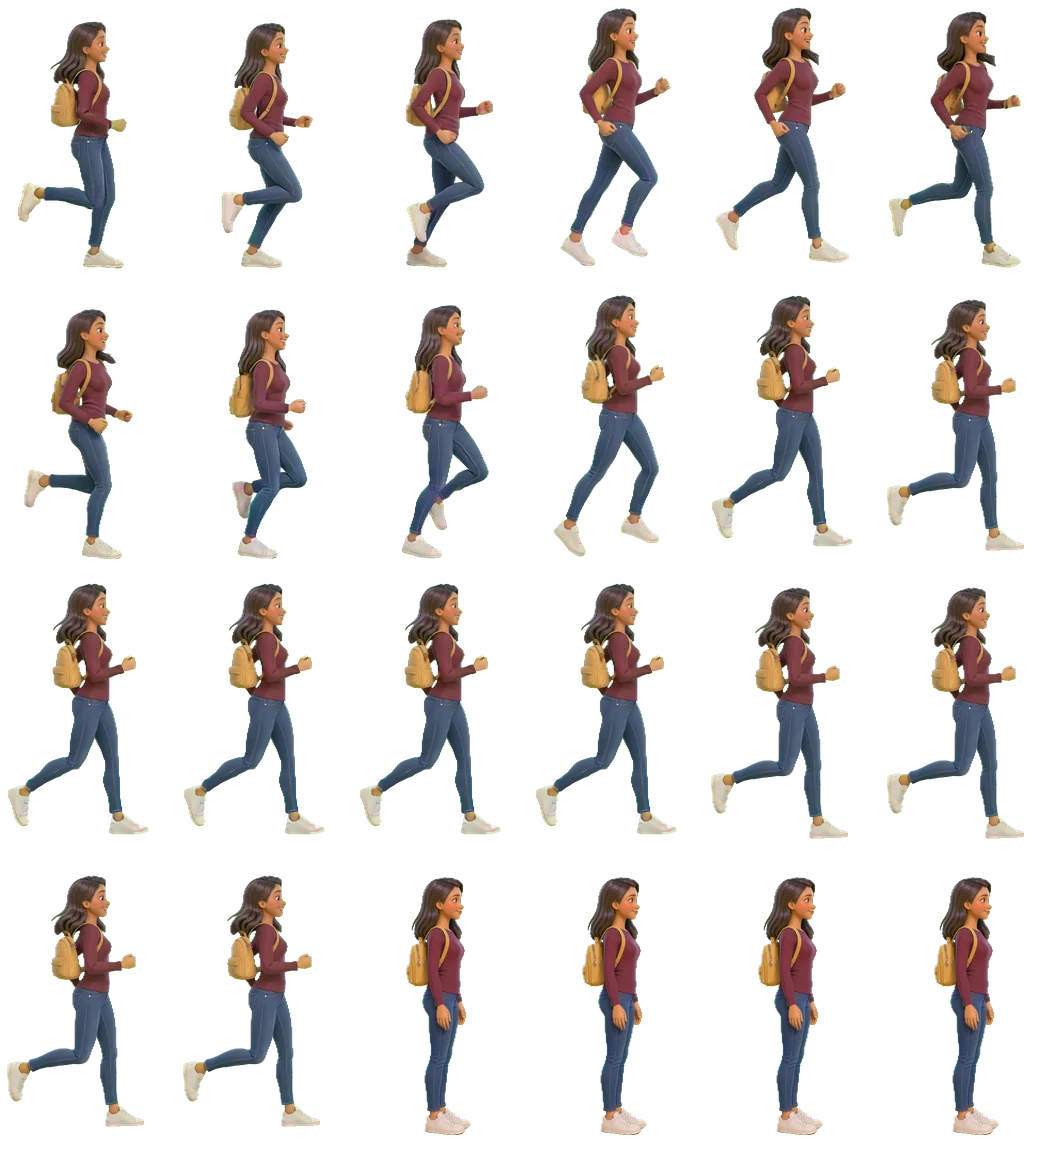
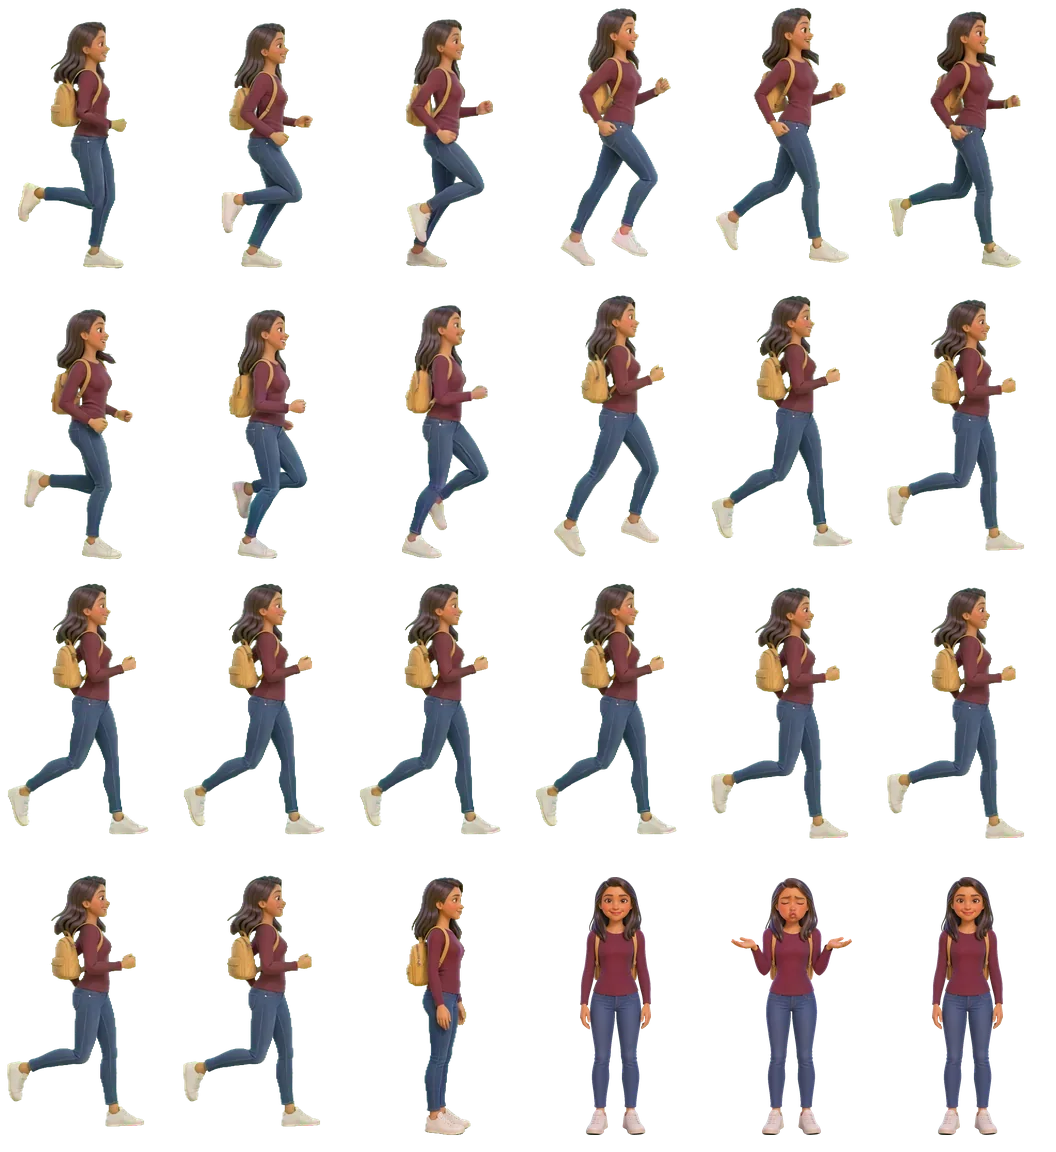
Jasmin 2 : héros de face au départ et après 10 s d'arrêt (soupir), tenues de Médina Express
- cases 21-23 des planches : de face, soupir ; 40 planches de tenues (jasmin2/corps-<id>-<tenue>.webp)
- menu « Ta tenue » : même garde-robe et mêmes pièces que Médina Express
- docs et scripts (docs/jasmin2-corps/face.py)

Claude-Session: https://claude.ai/code/session_01Lr4SkBJnq1yRYGqqaX6PKr

Changed region(s): [[0.875, 0.75, 0.9688, 1.0], [0.5312, 0.75, 0.625, 1.0], [0.6875, 0.75, 0.8125, 1.0]]

diff --git a/jeux/legende-du-jasmin-2.html b/jeux/legende-du-jasmin-2.html
@@ -53,6 +53,10 @@ h2{font-family:var(--display);margin:0;font-size:30px;line-height:1.05}
 .big.blue{background:linear-gradient(#3f86e8,#1f5fbf);color:#fff;box-shadow:0 6px 0 var(--blue2)}
 .row{display:flex;gap:10px;width:100%;flex-wrap:wrap}
 .row > *{flex:1 1 180px}
+.tenues-w{width:100%;min-width:0}.tlab{margin:0 0 4px;color:var(--mist);font-weight:700;font-size:.85rem;text-align:left}
+.tenues{display:flex;gap:8px;overflow-x:auto;touch-action:pan-x;padding:2px 2px 8px;scrollbar-width:none}.tenues::-webkit-scrollbar{display:none}
+.tenues button{flex:none;min-width:96px;min-height:56px;border-radius:14px;border:2px solid var(--line);background:#ffffff14;color:#fff;font:800 .82rem inherit;font-family:inherit;padding:6px 10px;display:flex;flex-direction:column;align-items:center;gap:1px;cursor:pointer}
+.tenues button span{font-size:1.3rem;line-height:1}.tenues button small{font-weight:700;opacity:.8;font-size:.7rem}.tenues button.on{background:#ffc93c;color:#23324a;border-color:#ffc93c}.tenues button.lock{opacity:.7}
 .who{display:flex;align-items:center;gap:10px;background:#ffffff14;border:2px solid var(--line);border-radius:999px;padding:6px 16px 6px 6px;min-height:56px}
 .av{width:44px;height:44px;border-radius:50%;overflow:hidden;display:grid;place-items:center;font-size:24px;background:#2a3d82;flex:none}
 .av img{width:100%;height:100%;object-fit:cover}
@@ -108,9 +112,10 @@ body.menu .back{display:inline-flex}
 
 <div class="screen on" id="menu"><div class="box">
   <video class="title-img" id="titleVid" src="jasmin/titre.mp4" poster="jasmin/titre.webp" preload="none" muted playsinline disablepictureinpicture aria-label="La famille dans un village tunisien bleu et blanc : passe la souris ou touche l'image pour la voir sauter"></video>
-  <h1>La Légende <span>du Jasmin 2</span></h1>
+  <h1 style="font-size:clamp(1.5rem,4.4vw,2.7rem);white-space:nowrap">La Légende <span>du Jasmin 2</span></h1>
   <p class="sub">Le Scorpion d'Or a volé les jasmins dorés de la Tunisie. Traverse dix-huit mondes pour les rapporter !<br>Les héros « en vrai » · même aventure, mêmes progrès que le <a href="legende-du-jasmin.html" style="color:inherit">Jasmin 1</a>.</p>
   <button class="who" id="who"></button>
+  <div class="tenues-w"><p class="tlab" id="tLab">Ta tenue</p><div class="tenues" id="tenues"></div></div>
   <button class="big" id="play">▶ Jouer</button>
   <div class="row"><button class="big ghost" id="openRecs">🏆 Records</button><button class="big ghost" id="openOpts">⚙ Réglages</button><button class="big ghost" id="openHelp">❓ Comment jouer</button></div>
 </div></div>
@@ -552,7 +557,8 @@ async function setPlayer(name){
   if(window.Famille){
     if(!tracked.has(name)){ tracked.add(name); Famille.track('jasmin', name, [skey()]); }
     const r = await Famille.load('jasmin', name), d = r && r[skey()];
-    if(d && player === name && (d.t || 0) > (save.t || 0)){ save = Object.assign(fresh(), d); store.set(skey(), save); renderMenu(); }
+    if(d && player === name && (d.t || 0) > (save.t || 0)){ save = Object.assign(fresh(), d); store.set(skey(), save); renderMenu(); loadBody(name); }
+    try{ const rm = await Famille.load('medina', name), dm = rm && rm[mkey()], lm = store.get(mkey(), null); if(dm && player === name && (!lm || (dm.t || 0) > (lm.t || 0))){ store.set(mkey(), dm); renderTenues(); loadBody(name); } }catch(e){}
   }
 }
 const pcol = () => PEOPLE[(player || '').toLowerCase()] || Object.assign({ mascot:true }, mascotOf(player));
@@ -1164,7 +1170,11 @@ const HEADCROP_P = { essil:[.048, .011, .86], salma:[.066, .024, .88], amine:[.0
 function headCropP(){ const k = (player || '').toLowerCase(); return HEADCROP_P[PEOPLE[k] ? k : mascotOf(player).id] || HEADCROP_P.nour; }
 function headCrop(){ const k = (player || '').toLowerCase(); return HEADCROP[PEOPLE[k] ? k : mascotOf(player).id] || HEADCROP.nour; }
 /* ---------- Jasmin 2 : le héros « en vrai » (planche de profil tirée de vidéos, comme dans Médina Express) ---------- */
-// jasmin2/corps-<id>.webp : 6 x 4 images tournées vers la droite. 0-11 la foulée, 12-19 le saut, 20 debout.
+// jasmin2/corps-<id>[-<tenue>].webp : 6 x 4 images tournées vers la droite. 0-11 la foulée, 12-19 le bond, 20 debout de profil, 21 de face, 22 de face qui soupire.
+// Les tenues sont celles de Médina Express : même garde-robe (`medina:<Prénom>`.skins) et mêmes pièces pour les acheter.
+const TENUES = [{ id:'classique', n:'Classique', ic:'👕', prix:0 }, { id:'jebba', n:'Jebba et chéchia', ic:'🕌', prix:150 }, { id:'foot', n:'Maillot de foot', ic:'⚽', prix:300 }, { id:'super', n:'Super-héros', ic:'🦸', prix:600 }, { id:'astro', n:'Astronaute', ic:'🧑🚀', prix:1000 }, { id:'or', n:'Tout en or', ic:'✨', prix:2000 }];
+const mkey = () => 'medina:' + player, garde = () => { const m = store.get(mkey(), {}) || {}; return { m, coins:m.coins || 0, skins:Array.isArray(m.skins) ? m.skins : ['classique'] }; };
+const tenue = () => { const g = garde(); return TENUES.some(k => k.id === save.tenue) && (save.tenue === 'classique' || g.skins.includes(save.tenue)) ? save.tenue : 'classique'; };
 const TAILLE2 = { amine:.8, salma:.9, essil:.97, nour:.92, yasmine:.92, anis:1.08, imen:1.05, fares:1.04 };
 let bodySheet = null;   // { im, cw, ch, feet, top, k }
 function loadBody(name){
@@ -1174,14 +1184,16 @@ function loadBody(name){
     const c = document.createElement('canvas'); c.width = cw; c.height = ch; const x = c.getContext('2d', { willReadFrequently:true }); x.drawImage(im, 2 * cw, 3 * ch, cw, ch, 0, 0, cw, ch);
     const d = x.getImageData(0, 0, cw, ch).data; let top = ch, feet = 0; for(let y = 0; y < ch; y++){ let n = 0; for(let q = 0; q < cw; q++) if(d[(y * cw + q) * 4 + 3] > 120) n++; if(n > 2){ if(y < top) top = y; feet = y; } }
     bodySheet = { im, cw, ch, top, feet, k:TAILLE2[id] }; };
-  im.src = `jasmin2/corps-${id}.webp?v=1`;
+  const tn = tenue(); im.src = `jasmin2/corps-${id}${tn === 'classique' ? '' : '-' + tn}.webp?v=2`;
 }
-function drawBody(cx, h, t, run, air, ph){
+function drawBody(cx, h, t, run, air, ph, sg){
   const b = bodySheet, sc = 76 * b.k / (b.feet - b.top);   // 76 px de haut pour une taille de 1
-  let f; if(h.dead) f = 15; else if(h.swim) f = 14 + Math.floor(t * 5) % 3; else if(air) f = h.vy < -260 ? 13 : h.vy < -90 ? 14 : h.vy < 90 ? 15 : h.vy < 300 ? 16 : 17; else if(run > .12) f = Math.floor((((ph / (Math.PI * 2)) % 1) + 1) % 1 * 12); else f = 20;
+  let f; if(h.dead) f = 15; else if(h.swim) f = 14 + Math.floor(t * 5) % 3; else if(air) f = h.vy < -260 ? 13 : h.vy < -90 ? 14 : h.vy < 90 ? 15 : h.vy < 300 ? 16 : 17; else if(run > .12) f = Math.floor((((ph / (Math.PI * 2)) % 1) + 1) % 1 * 12); else f = h.lookProf ? 20 : sg > .12 && sg < .85 ? 22 : 21;   // à l'arrêt : de profil ; au départ et après 10 s sans bouger : de face, puis le soupir
+  const flip = f >= 21 && h.face < 0; if(flip){ cx.save(); cx.scale(-1, 1); }   // de face, on ne le retourne pas
   const w = b.cw * sc, hh = b.ch * sc; cx.imageSmoothingQuality = 'high';
   if(h.swim){ cx.save(); cx.translate(0, -20); cx.rotate(.9); cx.drawImage(b.im, (f % 6) * b.cw, Math.floor(f / 6) * b.ch, b.cw, b.ch, -w / 2, -b.feet * sc + 26, w, hh); cx.restore(); }
-  else cx.drawImage(b.im, (f % 6) * b.cw, Math.floor(f / 6) * b.ch, b.cw, b.ch, -w / 2, -b.feet * sc + 1, w, hh);
+  else cx.drawImage(b.im, (f % 6) * b.cw, Math.floor(f / 6) * b.ch, b.cw, b.ch, -w / 2, -b.feet * sc + 1 - (f === 22 ? 1.5 : 0), w, hh);
+  if(flip) cx.restore();
   return 76 * b.k;   // hauteur du héros
 }
 function drawHero(cx, h, t){
@@ -1195,10 +1207,10 @@ function drawHero(cx, h, t){
   if(bodySheet){
     if(!h.dead && (run > .15 || (air && Math.abs(h.vx) > 20))){ h.still = t; h.sigh = 0; h.lookProf = true; } else if(h.still === undefined) h.still = t;
     if(h.lookProf && !h.dead && t - h.still > 10){ h.lookProf = false; h.sigh = t; sfx.sigh(); }
-    const H2 = drawBody(cx, h, t, run, air, ph), sg = h.sigh && t - h.sigh < 2.2 ? (t - h.sigh) / 2.2 : -1;
+    const sg = h.sigh && t - h.sigh < 2.2 ? (t - h.sigh) / 2.2 : -1, H2 = drawBody(cx, h, t, run, air, ph, sg);
     if(h.harissa){ cx.fillStyle = '#ff6a1a'; cx.beginPath(); cx.arc(13, -H2 * .42, 4 + Math.sin(t * 12), 0, 7); cx.fill(); }
-    if(sg > .3 && sg < 1){ const k = (sg - .3) / .7; cx.save(); cx.globalAlpha = Math.max(0, 1 - k) * .9; cx.fillStyle = '#ffffff';
-      [[0, 4.5], [.18, 3.6], [.36, 2.8]].forEach(([d, r]) => { const q = Math.max(0, k - d); if(q > 0){ cx.beginPath(); cx.arc(9 + q * 26, -H2 * .8 - q * 12, r + q * 2, 0, 7); cx.fill(); } });
+    if(sg > .3 && sg < 1){ const k = (sg - .3) / .7; cx.save(); if(h.face < 0) cx.scale(-1, 1); cx.globalAlpha = Math.max(0, 1 - k) * .9; cx.fillStyle = '#ffffff';
+      [[0, 4.5], [.18, 3.6], [.36, 2.8]].forEach(([d, r]) => { const q = Math.max(0, k - d); if(q > 0){ cx.beginPath(); cx.arc(6 + q * 26, -H2 * .8 - q * 12, r + q * 2, 0, 7); cx.fill(); } });
       cx.font = '800 9px "Baloo 2", sans-serif'; cx.fillStyle = '#23324a'; cx.textAlign = 'left'; cx.fillText('pff…', 18 + k * 10, -H2 * .9 - k * 8); cx.restore(); }
     if(h.chechia && !h.swim){ cx.save(); cx.translate(0, -H2 + 4); cx.fillStyle = '#c4122f'; cx.beginPath(); cx.moveTo(-9, 0); cx.lineTo(9, 0); cx.lineTo(7.5, -11); cx.lineTo(-7.5, -11); cx.closePath(); cx.fill(); cx.fillStyle = '#8a0a1f'; cx.fillRect(-8, -3, 16, 2.5);
       cx.strokeStyle = '#111'; cx.lineWidth = 1.6; cx.beginPath(); cx.moveTo(0, -11); cx.quadraticCurveTo(-7, -8 + Math.sin(t * 8) * 2, -10, -1); cx.stroke(); cx.restore(); }
@@ -1314,7 +1326,14 @@ function frame(now){
    Écrans : menu, mondes, questions, fin de niveau
    ===================================================================== */
 function show(id){ releaseAll(); keys.l = keys.r = keys.a = keys.b = false; document.querySelectorAll('.screen').forEach(s => s.classList.toggle('on', s.id === id)); document.body.classList.toggle('menu', id === 'menu'); document.body.classList.toggle('playing', !id); }
-function renderMenu(){ $('who').innerHTML = player ? `${avatarHTML(player)}<span><b>${esc(player)}</b><small>Toucher pour changer de héros</small></span>` : `${avatarHTML('')}<span><b>Qui joue ?</b><small>Choisis ton héros</small></span>`; }
+function renderTenues(){ const g = garde(), cur = tenue(); $('tLab').textContent = player ? `Ta tenue · tu as ${g.coins} 🪙 (les pièces de Médina Express)` : 'Ta tenue';
+  $('tenues').innerHTML = TENUES.map(k => { const has = k.prix === 0 || g.skins.includes(k.id); return `<button class="${cur === k.id ? 'on' : ''} ${has ? '' : 'lock'}" data-tn="${k.id}"><span>${k.ic}</span>${k.n}<small>${has ? (cur === k.id ? 'je la porte' : 'à moi') : '🔒 ' + k.prix + ' 🪙'}</small></button>`; }).join('');
+  const on = $('tenues').querySelector('.on'); if(on) $('tenues').scrollLeft = Math.max(0, on.offsetLeft - 60); }
+$('tenues').onclick = async e => { const b = e.target.closest('[data-tn]'); if(!b) return; audio(); if(!player && !(await choose())) return; const k = TENUES.find(x => x.id === b.dataset.tn), g = garde();
+  if(k.prix > 0 && !g.skins.includes(k.id)){ if(g.coins < k.prix){ sfx.tap(); $('tLab').textContent = `Il te manque ${k.prix - g.coins} 🪙 pour « ${k.n} » : gagne des pièces dans Médina Express !`; return; }
+    const m = Object.assign({}, g.m, { coins:g.coins - k.prix, skins:g.skins.concat(k.id), t:Date.now() }); store.set(mkey(), m); if(window.Famille && Famille.track && !tracked.has('m:' + player)){ tracked.add('m:' + player); Famille.track('medina', player, [mkey()]); } }
+  sfx.tap(); save.tenue = k.id; persist(); renderTenues(); loadBody(player); };
+function renderMenu(){ renderTenues(); $('who').innerHTML = player ? `${avatarHTML(player)}<span><b>${esc(player)}</b><small>Toucher pour changer de héros</small></span>` : `${avatarHTML('')}<span><b>Qui joue ?</b><small>Choisis ton héros</small></span>`; }
 async function choose(){ const n = await Famille.choosePlayer({ title:'Qui part à l\'aventure ?', extra:PARENTS, avatar:k => `<img src="avatars/${k.name.toLowerCase()}.webp" alt="" onerror="this.replaceWith(document.createTextNode('${k.emoji}'))">` }); if(n) await setPlayer(n); return n; }
 $('who').onclick = () => { audio(); sfx.tap(); choose(); };
 // un monde est ouvert s'il est le premier du voyage, s'il l'était déjà avec l'ancien ordre (1 à 5), ou si le monde d'avant est réussi

diff --git a/docs/jasmin2-corps/face.py b/docs/jasmin2-corps/face.py
@@ -1,0 +1,21 @@
+"""Jasmin 2 : ajoute à une planche la vue de face (case 21 et 23) et le soupir (case 22), à la même taille que le héros debout de profil (case 20).
+   usage : python3 face.py <nom>   (images sur fond vert : img/<nom>-face.png, img/<nom>-soupir.png)"""
+import numpy as np, sys, os
+from PIL import Image
+from scipy import ndimage as nd
+CW, CH = 176, 288
+def key(path):
+    a = np.array(Image.open(path).convert('RGB')).astype(float); r, g, b = a[..., 0], a[..., 1], a[..., 2]
+    k = g - np.maximum(r, b); al = np.clip((48 - k) / 30, 0, 1); lab, n = nd.label(al > .5)
+    if n > 1: sizes = nd.sum(al > .5, lab, range(1, n + 1)); al = al * nd.binary_dilation(lab == (int(np.argmax(sizes)) + 1), iterations=3)
+    a[..., 1] = np.where(al < 1, np.minimum(g, np.maximum(r, b) + 8), g)
+    im = Image.fromarray(np.dstack([a, al * 255]).astype(np.uint8), 'RGBA'); ys, xs = np.nonzero(al > .5); return im.crop((xs.min(), ys.min(), xs.max() + 1, ys.max() + 1))
+def main(n):
+    p = f'/home/claude/jeux-amine/jeux/jasmin2/corps-{n}.webp'; sh = Image.open(p).convert('RGBA'); idle = np.asarray(sh.crop((2 * CW, 3 * CH, 3 * CW, 4 * CH)))[..., 3] > 128
+    ys = np.nonzero(idle.any(axis=1))[0]; top, feet = ys.min(), ys.max(); H = feet - top + 1
+    face = key(f'img/{n}-face.png'); k = H / face.height
+    for cellno, src in ((21, face), (22, key(f'img/{n}-soupir.png')), (23, face)):
+        im = src.resize((max(1, round(src.width * k)), max(1, round(src.height * k))), Image.LANCZOS); c = Image.new('RGBA', (CW, CH), (0, 0, 0, 0)); c.paste(im, ((CW - im.width) // 2, feet + 1 - im.height))
+        x0, y0 = (cellno % 6) * CW, (cellno // 6) * CH; sh.paste(c, (x0, y0))
+    sh.save(p, quality=84, method=6); bg = Image.new('RGBA', sh.size, (190, 215, 255, 255)); bg.alpha_composite(sh); bg.convert('RGB').crop((0, 3 * CH, 6 * CW, 4 * CH)).save(f'prev-face-{n}.jpg'); print(n, 'H', H, os.path.getsize(p) // 1024, 'Ko')
+main(sys.argv[1])

diff --git a/docs/higgsfield.md b/docs/higgsfield.md
@@ -53,12 +53,13 @@ Compte du papa (forfait **Plus**), relié à Claude par le connecteur MCP Higgsf
 | 11/11 | Médina Express, corps animés : 7 images de dos sur fond vert (14), 23 vidéos `kling3_0` std 3 s sans son à **4,5 crédits** (103,5 : course, saut, accroupi pour 8 personnages), 44 planches habillées `flux_3_image` à 2 crédits (88 : 40 tenues, 1 essai, 3 astronautes refaits sans vrai gain). Planche verte envoyée par `media_upload`, `aspect_ratio: auto` ; l'image revient en 976 × 1065, poses et places conservées | `jeux/medina/corps-*.webp` (48), scripts `docs/medina-corps/` | 205,5 |
 | 11/11 | Médina Express, le policier : 1 image de dos sur fond vert (`flux_3_image`, l'image de départ d'Anis en référence pour le style et la pose, job `d7005857-e7c7-44ce-bb08-b86bdfe06f7a`) + 1 vidéo de course `kling3_0` std 3 s | `jeux/medina/policier.webp` | 6,5 |
 | 11/11 | Jasmin 2, héros de profil : 8 images debout de profil sur fond vert (16), 8 vidéos de course (36), 8 vidéos de saut **non utilisées** (36 : la tête sort du cadre), 1 course refaite pour Nour (4,5 : le mot « treadmill » avait fait apparaître un tapis de course) | `jeux/jasmin2/corps-*.webp` (8), script `docs/jasmin2-corps/sheet2.py` | 92,5 |
+| 11/11 | Jasmin 2, face, soupir et tenues : 8 images de face (16), 8 retouches « soupir » à partir de l'image de face (16), 40 planches habillées (80 ; 1 échec non facturé, relancé). Consigne des tenues : « keep the same 24 figures (side views facing right, and front views in the last row)… » ; l'astronaute des 3 mascottes garde une combinaison crème | `jeux/jasmin2/corps-*.webp` (48) | 112 |
 | 10/11 | La Planète des Nombres (Amine) : 8 aliens (2 refaits pour être bien originaux : le vert à un œil et le rose à grandes oreilles rappelaient des personnages connus), soucoupe, décor et accueil (`flux_3_image`, fond blanc détouré par remplissage depuis les bords) ; voix de Julian : les nombres de 0 à 59 en 6 prises de dix (« Zéro. Un. … Neuf. Voilà. », découpées aux silences avec `split2.py`), « Soixante » et 19 consignes à part | `amine/nombres/*.webp`, `amine/nombres/voix/*.mp3` | 28 |
 | 10/11 | Nouvel avatar de Salma : 3 propositions (`flux_3_image`, 1:1), références = 3 gros plans de son visage recadrés (sans le fond ni son frère) + l'avatar d'Essil pour le style ; choix 1 retenu (job 1960c07c…) | `jeux/avatars/salma.webp` | 6 |
 | 10/11 | Salma refaite sur 9 images (retouche `flux_3_image` : 1re référence = l'ancienne image, 2e = le nouvel avatar ; consigne « Edit the first image. Keep everything exactly the same… Only change the girl… ») + vidéo d'accueil du Jasmin refaite (`kling3_0`, 5 s, std, sans son, même image au début et à la fin) | `jeux/avatars/salma-{dragon,licorne,phenix}.webp`, `ludo-famille`, `grimpe-glace`, `jeux/cartes/{verbes,hydre}.webp`, `jeux/jasmin/titre.{webp,mp4}`, `salma/meteo/titre.webp` | 25,5 |
 | 10/11 | Têtes de profil pour le héros du Jasmin : 8 images (`flux_3_image`, 1:1, l'avatar en référence, « same character… clean side profile view… looking to the RIGHT ») | `jeux/avatars/*-profil.webp` | 16 |
 | 11/11 | Têtes « soupir » du héros du Jasmin : 8 images (`flux_3_image`, 1:1, l'avatar en référence, « Exactly the same image… Only the expression changes: a funny bored sigh… ») — même cadrage que l'avatar, donc même réglage de tête | `jeux/avatars/*-soupir.webp` | 16 |
-| | **Total** (solde Higgsfield le 11/11 au soir : 204,6 crédits) | | **≈ 1 127** |
+| | **Total** (solde Higgsfield le 11/11 au soir : 92,6 crédits) | | **≈ 1 239** |
 
 La carte mythique de Salma (`verbes`) a une crête de plumes qui rappelle une coiffe ; publiée telle quelle à la demande du papa (02/11).
 

diff --git a/docs/jeux-3d.md b/docs/jeux-3d.md
@@ -102,6 +102,8 @@ Bouton 💬 (uniquement en ligne) : emojis, phrases toutes faites, message libre
 Demandé par le papa : reprendre les personnages « en vrai » de Médina Express dans le Jasmin, en gardant l'ancienne version. Le Jasmin 2 est une **copie du Jasmin** où seul le héros change : même aventure, mêmes 18 mondes, **même sauvegarde** (`jasmin:<Prénom>`) et mêmes records (`jasmin`), donc les progrès passent d'une version à l'autre. Un lien sur l'écran-titre de chacune mène à l'autre ; lien sur l'accueil.
 - **Le héros** : une planche de profil par personnage (famille et 3 mascottes), `jeux/jasmin2/corps-<id>.webp`, 1056 × 1152, 6 × 4 cases, tourné vers la droite (le jeu le retourne pour aller à gauche) : cases 0-11 la foulée, 12-15 le bond qui monte, 16-19 le bond qui descend, 20-23 debout. Code : `loadBody()` (charge la planche et mesure la tête et les pieds de la case « debout »), `drawBody()` (choisit l'image : debout, foulée selon `h.phase`, bond selon `h.vy`, nage = bond penché), branche `if(bodySheet)` au début de `drawHero` ; chéchia, flamme d'harissa et soupir « pff… » redessinés par-dessus. Hauteur 76 px × `TAILLE2` (Amine .8 … Anis 1.08) ; la boîte de collision ne change pas. Sans planche (pas encore chargée), l'ancien héros s'affiche.
 - **Fabrication** (`docs/jasmin2-corps/sheet2.py`) : image `flux_3_image` du personnage debout de profil sur fond vert (références : l'avatar + l'image de dos de Médina Express, pour garder la tenue) → vidéo `kling3_0` std 3 s « court sur place, vue de profil » → foulée qui boucle + image de départ pour « debout ». **Ne pas écrire « treadmill » dans la consigne** (Nour a couru sur un vrai tapis de course, vidéo refaite). Les vidéos de saut de profil n'ont pas servi : le personnage sort du cadre par le haut (tête coupée) ; le saut du jeu est donc la foulée la plus ouverte. Pour un vrai saut groupé, il faudrait une image de départ avec plus de vide au-dessus de la tête.
+- **De face et soupir** (11/11, comme dans le Jasmin 1) : au départ le héros est **de face** (case 21) ; dès qu'il bouge il passe de profil et le reste à l'arrêt (case 20) ; après **10 s sans bouger** il se remet de face, hausse les épaules et souffle (case 22, nuages et « pff… », `sfx.sigh`), puis reste de face. Images : `flux_3_image` de face (références : avatar + image de profil), puis la même image retouchée pour le soupir (« shrugs… eyes closed, cheeks puffed… ») ; `docs/jasmin2-corps/face.py` les met à la taille du héros de profil et les range dans la planche.
+- **Tenues** (11/11) : les 6 tenues de Médina Express, sur les planches de profil (`corps-<id>-<tenue>.webp`, 48 planches en tout, faites avec `docs/medina-corps/skin.py`). **Même garde-robe et mêmes pièces que Médina Express** : le menu lit `medina:<Prénom>` (`skins`, `coins`), une tenue achetée dans un jeu est à soi dans l'autre, et un achat fait ici retire les pièces de Médina Express (la sauvegarde `medina` est alors suivie par `Famille.track`). La tenue portée dans le Jasmin 2 est gardée dans `jasmin:<Prénom>.tenue`. Code : `TENUES`, `garde()`, `tenue()`, `renderTenues()`.
 
 ## L'Atelier du Jasmin — `jeux/atelier-du-jasmin.html` (coloriage, 2D ou 3D) (10/11)
 

diff --git a/docs/journal.md b/docs/journal.md
@@ -76,3 +76,4 @@ Une ligne par réalisation, la plus ancienne en premier. Ajouter une ligne à ch
 - **11/11** : **Médina Express, 3e passe** : corps animés « en vrai » pour les 8 personnages (famille et mascottes), avec un **vrai saut** et une **vraie glissade** (planches de 24 images tirées de vidéos Higgsfield), et les 5 tenues payantes dessinées sur ces corps (48 planches). Tailles différentes selon le personnage. Menu réparé sur téléphone (la rangée des tenues élargissait la page). Cache de l'appli : `missaoui-v5`. 205,5 crédits (solde : 303,6).
 - **11/11** : **Médina Express : le policier**. À la fin d'une course, un policier tunisien rattrape le coureur en sifflant, le relève et l'embarque dans sa voiture (gyrophare, sirène), puis les scores s'affichent ; on peut passer la scène en touchant l'écran. 6,5 crédits (solde : 297,1).
 - **11/11** : **La Légende du Jasmin 2** (`jeux/legende-du-jasmin-2.html`) : le Jasmin avec les héros « en vrai » de Médina Express, vus de profil (8 planches : debout, course, bond). L'ancienne version reste ; les deux partagent la sauvegarde et les records. 92,5 crédits, dont 36 de vidéos de saut inutilisables (tête hors cadre) et 4,5 pour refaire la course de Nour (solde : 204,6).
+- **11/11** : **Jasmin 2 : vue de face, soupir et tenues**. Le héros « en vrai » démarre de face, passe de profil quand il bouge, et après 10 s d'arrêt se remet de face et souffle, comme dans le Jasmin 1. Les 6 tenues de Médina Express sont dans le menu (même garde-robe et mêmes pièces que Médina Express ; 48 planches). 112 crédits (solde : 92,6).
